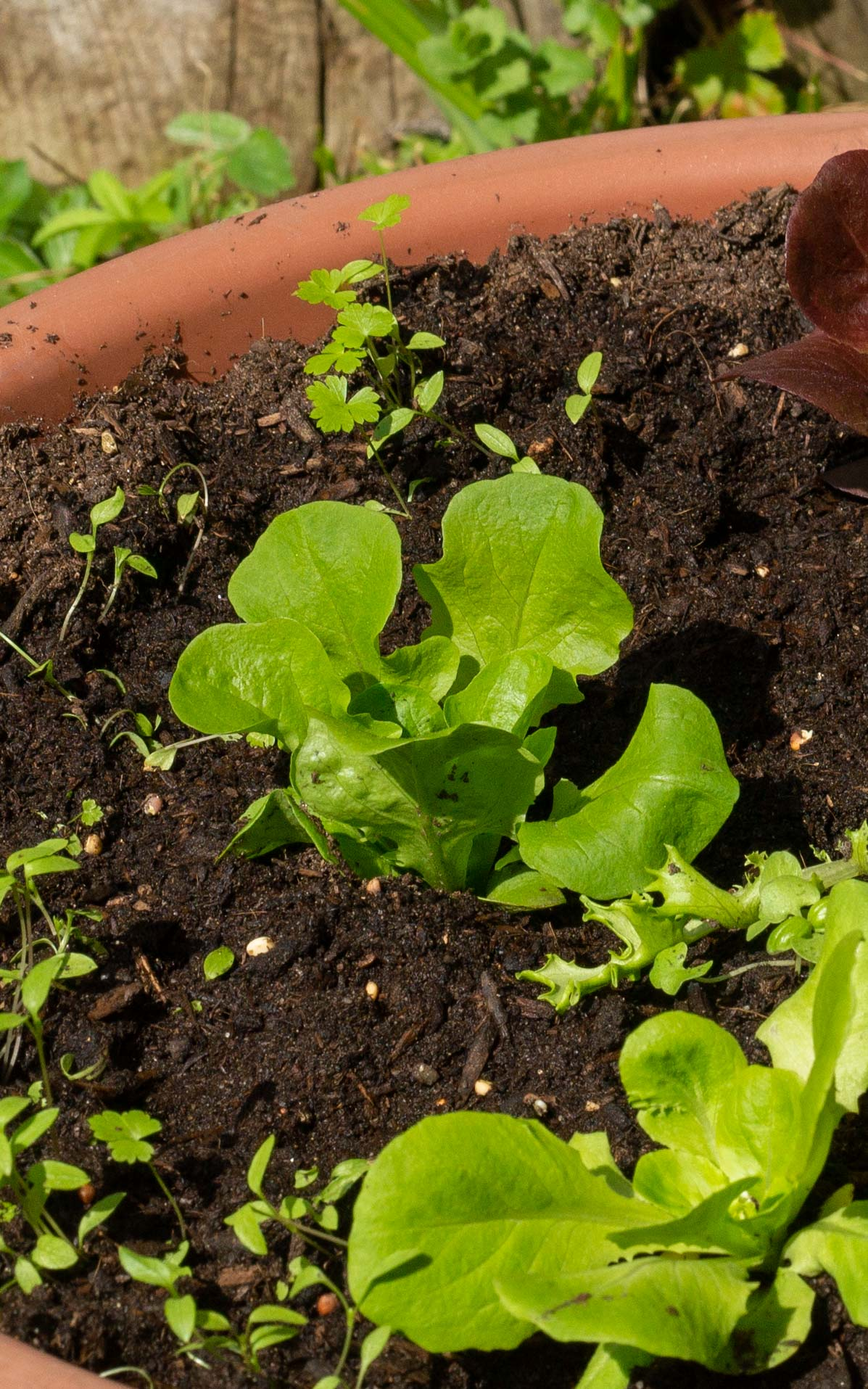
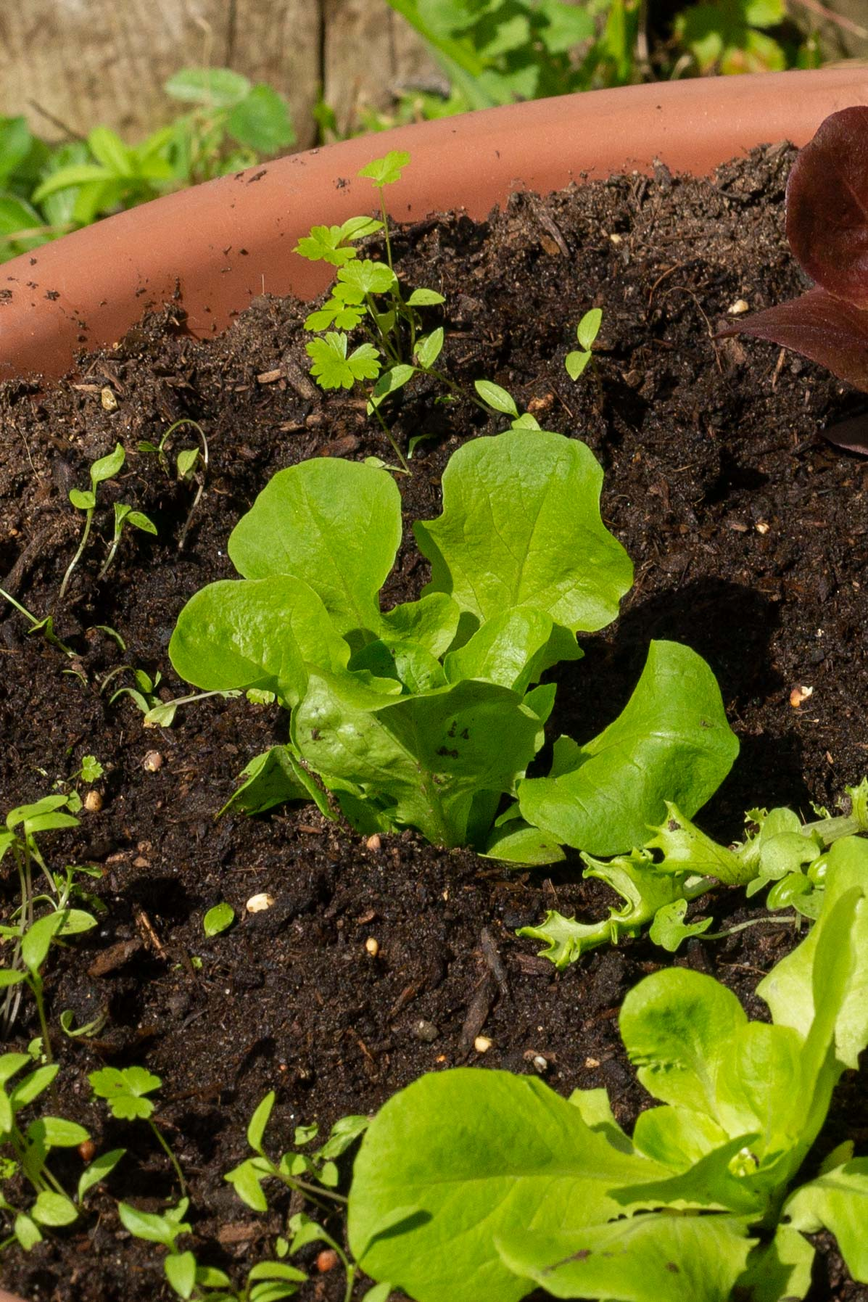
pictures
added potato picture, changed aspect ratio of salad pictures (luka)

diff --git a/src/components/ComparisonPotato.vue b/src/components/ComparisonPotato.vue
@@ -74,7 +74,7 @@ export default {
               person: 'André',
             },
             {
-              image: 'W1-Andre-20200507-DT4A9091-Web-2.jpg',
+              image: 'Kartoffel-Luka-3.jpg',
               place: 'Adliswil',
               person: 'Luka',
             },
